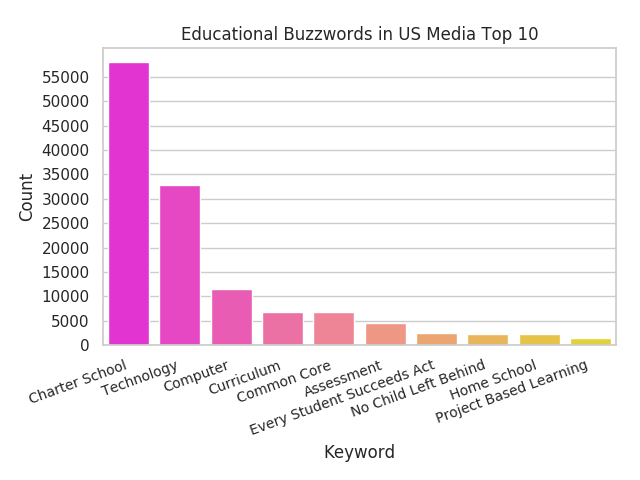
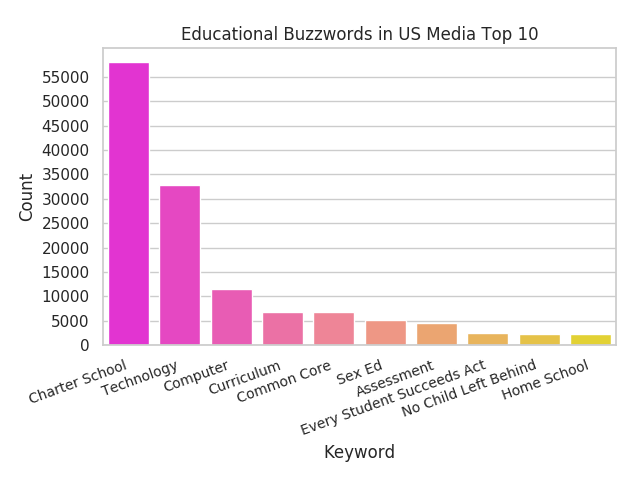
added comments, common core

diff --git a/gdelt-edu-web/templates/GDELT-details.html b/gdelt-edu-web/templates/GDELT-details.html
@@ -1,7 +1,44 @@
 {% extends "layout.html" %}
 {% block title %}
-Home - GDELT Education
+GDELT - GDELT Education
 {% endblock %}
   {% block content %}
+  <div class="centered">
+    <h2 class="subcategory-header"> Global Database of Events Language and Tone (GDELT) </h2>
 
+    <div class="topic-intro caption">
+    <p> All of the data used in this project originated from the GDELT dataset.
+      I used the events table, in which each row of the table represents a given event
+      and is characterized by actors and actor codes, an event code, geographic coordinates,
+      a URL linking to the article describing the event, the average tone of the article,
+      the country where the event took place, as well as the date the article was published and the date when the article was uploaded
+      to the database. For more information on how the articles are filtered, analyzed,
+      and uploaded to the database, please see this <a href="http://data.gdeltproject.org/documentation/ISA.2013.GDELT.pdf">2013 paper introducing GDELT</a> [1].
+    </p>
+
+    <p>The events table holds 184.3 GB of data and consists of 460,419,602 rows. Using Google Big Query
+      I filtered this table for all actor codes that included the code EDU and saved the
+      results in a new table that consisted of 6.82 GB of data and 23,109,910 rows.
+    </p>
+
+    <p> The main fields of interest that I used to make the majority of my visualizations include:
+    </p>
+    <div class="fields-list">
+    <ul>
+      <li><b>SOURCEURL:</b> This field is only present in the daily event stream files beginning April 1, 2013 and lists the URL of the news article the event was found in. If an event was mentioned in multiple articles, only one of the URLs is provided. This field is not present in event files prior to April 1, 2013 [2].<br><br></li>
+      <li><b>AvgTone:</b> This is the average “tone” of all documents containing one or more mentions of this event. The score ranges from -100 (extremely negative) to +100 (extremely positive) [2].<br><br> </li>
+      <li> <b>NumMentions:</b> This is the total number of mentions of this event across all source documents. Multiple references to an event within a single document also contribute to this count. This can be used as a method of assessing the “importance” of an event: the more discussion of that event, the more likely it is to be significant [2].<br><br></li>
+      <li> <b>Actor1Geo_ADM1Code</b> This field allowed me to extract individual states from within United States [2]. <br><br></li>
+    </div>
+    <h2 class="subcategory-header"> Sources </h2>
+    <div class="fields-list">
+    <ol>
+      <li><a href="http://data.gdeltproject.org/documentation/ISA.2013.GDELT.pdf">ISA 2013 Paper Introducing GDELT</a> </li>
+      <li><a href="http://data.gdeltproject.org/documentation/GDELT-Data_Format_Codebook.pdf">GDELT 1.0 Data Format Documentation</li>
+    </ol>
+    </div>
+
+
+</div>
+  </div>
   {% endblock %}

diff --git a/gdelt-edu-web/templates/layout.html b/gdelt-edu-web/templates/layout.html
@@ -17,6 +17,7 @@
         <!-- since the list is right-floated it displays backwards -->
         <ul>
           <li><a href="/contact"> Contact </a>
+          <li><a href="/GDELT-details"> GDELT Details </a>
           <li><a href="https://github.com/yohn-dezmon/education-gdelt"> Source Code </a>
           <li><a href="/"> Home </a>
 
@@ -33,10 +34,9 @@
         <ul class="bottom-links">
           <li><a href="essa">Every Student Succeeds Act</a></li>
           <li><a href="curriculum">Curriculum in the US</a></li>
-          <li><a href="mastery">Mastery Based Learning</a></li>
-          <li><a href="querydb"> Query Data </a></li>
-          <li><a href="charter-schools"> Charter Schools </a></li>
-          <li><a href="assessment"> Assessments </a></li>
+          <li><a href="common-core">Common Core</a></li>
+          <li><a href="charter-schools">Charter Schools </a></li>
+          <li><a href="assessment">Assessments </a></li>
       </ul>
       </div>
     </div>

diff --git a/gdelt-edu-web/templates/charter-schools.html b/gdelt-edu-web/templates/charter-schools.html
@@ -1,6 +1,6 @@
 {% extends "layout.html" %}
 {% block title %}
-Home - GDELT Education
+Charter Schools - GDELT Education
 {% endblock %}
   {% block content %}
   <div class="centered">
@@ -55,8 +55,8 @@ Home - GDELT Education
     {{ top_20_20152016|safe }}
     </div>
 
-    
-    <h2 class="subcategory-header"> Recent Decline in Average Tone and Number of Mention </h2>
+
+    <h2 class="subcategory-header"> Recent Decline in Average Tone and Number of Mentions </h2>
     <div class="CATable">
     {{ top_20_2017pres|safe }}
     </div>

diff --git a/gdelt-edu-web/templates/index.html b/gdelt-edu-web/templates/index.html
@@ -16,7 +16,7 @@ Home - GDELT Education
          include:
          which states have the greatest media coverage of educational topics,
          how are laws regarding education received by the public,
-         which states are talking about curriculum the most, amongst others.
+         what is the relative occurence of educational buzzwords in US media, amongst others.
          To see the data visualizations that answer these questions, please
          select a sub-category below!</p>
 

diff --git a/gdelt-edu-web/static/styles.css b/gdelt-edu-web/static/styles.css
@@ -21,7 +21,7 @@ h1 {
 .header-buttons {
   float:right;
   display: inline;
-  width:30%;
+  width:40%;
 }
 
 ul {
@@ -118,7 +118,7 @@ h2 {
 
 .wide {
   width: 100%;
-  
+
 }
 
 .subcategory-header {
@@ -375,6 +375,21 @@ table.curriculum td {
   width:600px;
   height:450px;
   margin: auto;
+}
+
+.fields-list {
+  width:70%;
+  margin: auto;
+  text-align: center;
+  font-size: 0.9em;
+}
+
+.fields-list p {
+  font-size: 0.9em;
+}
+
+.fields-list ol li {
+  float: left;
 }
 
 /* table.FL {

diff --git a/gdelt-edu-web/templates/common-core.html b/gdelt-edu-web/templates/common-core.html
@@ -1,0 +1,11 @@
+{% extends "layout.html" %}
+{% block title %}
+Common Core - GDELT Education
+{% endblock %}
+  {% block content %}
+  <div class="centered">
+    <h2 class="subcategory-header"> Key-phrase: Common Core </h2>
+  <iframe class="subcat-img" width="900" height="400" frameborder="0" scrolling="no" src="//plot.ly/~yohn_dezmon/17.embed"></iframe>
+
+  </div>
+  {% endblock %}

diff --git a/gdelt-edu-web/templates/contact.html b/gdelt-edu-web/templates/contact.html
@@ -1,6 +1,6 @@
 {% extends "layout.html" %}
 {% block title %}
-ESSA - GDELT Education
+Contact - GDELT Education
 {% endblock %}
   {% block content %}
   <div class="Contact-Intro">

diff --git a/gdelt-edu-web/templates/assessment.html b/gdelt-edu-web/templates/assessment.html
@@ -87,5 +87,5 @@ Assessment - GDELT Education
   {{ FL_html_table|safe }}
   </div>
   </div>
-
+  </div>
   {% endblock %}

diff --git a/gdelt-edu-web/app.py b/gdelt-edu-web/app.py
@@ -20,35 +20,43 @@ import pdb
 app = Flask(__name__)
 
 class Database:
+    """ This class allows me to connect to the MySQL database. I have not included
+    a page where this is utilized on the website yet, however it is a feature I would
+    like to add in the future.
+    """
     def __init__(self):
         host = "127.0.0.1"
         user= "root"
         password = ""
         db = "gdelt"
 
+        # Here I am connecting to the database using pymysql.
         self.con = pymysql.connect(host=host, user=user, password=password, db=db,
                                 cursorclass=pymysql.cursors.DictCursor)
         self.cur = self.con.cursor()
 
     def list_actors(self):
+        """ This is a test query to ensure that pymysql was connecting to the database.
+        """
         self.cur.execute("SELECT Actor2Name from freqused LIMIT 50")
         result = self.cur.fetchall()
+        self.con.close()
 
         return result
 
-# instantiate Graph() class
 
 
 @app.route('/', methods=['GET'])
 def index_get():
-
-
+    """ This is the homepage of the website
+    """
 
     return render_template('index.html')
 
 @app.route('/querydb', methods=['GET'])
 def query_db_page():
-
+    """ Here I am connecting to the database with a combination of pymysql and
+    SQLAlchemy"""
     def db_query():
         db = Database()
         actors = db.list_actors()
@@ -62,7 +70,10 @@ def query_db_page():
 
 @app.route('/curriculum', methods=['GET'])
 def curri_page():
-
+    """ This is the curriculum category page. This method is used to generate the
+    graphs and tables that display on this page.
+    """
+    # The Graph class is instantiated and assigned to the graph variable.
     graph = Graph()
 
 
@@ -88,7 +99,9 @@ def curri_page():
 
 @app.route('/charter-schools', methods=['GET'])
 def charter_schools_page():
-
+    """ This is the charter school category page. This method is used to generate
+    the graphs and tables that display on the page.
+    """
     graph = Graph()
 
     # This line can be used to generate the avgtone/nummention line plot again if needed.
@@ -116,33 +129,46 @@ def charter_schools_page():
 
 @app.route('/essa', methods=['GET'])
 def essa_page():
+    """ This is the method that renders the Every Student Succeeds Act page."""
 
     return render_template('essa.html')
 
 @app.route('/GDELT-details', methods=['GET'])
 def details_page():
+    """ This method renders the page that explains the details of how I used the
+    GDELT Dataset and some of the key features within the Dataset.
+    """
 
     return render_template('GDELT-details.html')
 
-@app.route('/mastery', methods=['GET'])
-def mastery_page():
+@app.route('/common-core', methods=['GET'])
+def common_core_page():
+    """ This is the common category page.
+    """
 
-    return render_template('mastery.html')
+    return render_template('common-core.html')
 
 @app.route('/contact', methods=['GET'])
 def contact_page():
+    """ This method renders the contact page I've made in case someone wants to
+    contact me regarding the project
+    """
 
     return render_template('contact.html')
 
 
 @app.route('/assessment', methods=['GET'])
 def assessment_page():
+    """ This is the assessment category page. This method is used to generate
+    the graphs and talbes that display on the page.
+    """
+
     graph = Graph()
-    # dtype={'AvgAvgTone': 'float'}
+
     assessment_count = graph.assessment_count()
     assessment_avgtone = graph.assessment_avgtone()
 
-    # pdb.set_trace()
+
     maine_html_table = graph.table_generator("main_nummen_assessment", "assessment")
     student_html_table = graph.table_generator("student_nummen_assessment", "assessment")
     US_html_table = graph.table_generator("US_nummen_assessment", "assessment")

diff --git a/gdelt-edu-web/graphs.py b/gdelt-edu-web/graphs.py
@@ -11,34 +11,47 @@ import pdb
 
 class Graph(object):
     """ A class to house all of the code responsible for creating
-    the graphs on the website, thus making app.py more readable. """
+    the graphs and tables on the website, thus making app.py more readable.
+    """
 
     def __init__(self):
         pass
 
     def buzzwords_graph(self, name_of_file):
+        """ This method generates the 'Top 10' buzzwords bar graph that is displayed
+        on the Charter School page
+        """
+        # Setting the Seaborn style.
         sns.set(style='whitegrid')
 
+        # Ingesting the data into a Pandas dataframe.
         df = pd.read_csv('/media/sf_sharedwithVM/MySQL/'+name_of_file+'.csv',
                                 sep=',',
                                 names=['Keyword','Count']
                                 )
+        df2 = pd.DataFrame({'Keyword':['Sex Ed'],
+                    'Count': [5234]})
+        df = df.append(df2, ignore_index = True)
+        # Here the data is sorted by Count in descending order.
         if name_of_file == "keyword_count":
             df_sorted = df.sort_values(by=['Count'], ascending=False).head(10)
         else:
             df_sorted = df.sort_values(by=['Count'], ascending=False)
 
-
-        # default = 6.4 (width?), 4.8 (height)
+        # Create a figure object.
+        # The default width is 6.4 and the default height is 4.8.
         plt.figure()
+        # Seaborn is used to create a barplot.
         ax = sns.barplot(x='Keyword',y='Count', data=df_sorted, palette='spring')
         ax.set_xticklabels(ax.get_xticklabels(), rotation=20, ha="right", fontsize=10)
         plt.xlabel('Keyword', fontsize=12)
         # ok I think the ordering of tight_layout() -> subplots_adjust is important!
 
         y = df_sorted['Count']
+        # Creating appropriate y ticks.
         plt.yticks(np.arange(0, 60000, 5000))
         plt.ylabel('Count', fontsize=12)
+        # This ensures that the x-axis label is not cut off despite slightly vertical x tick labels.
         plt.tight_layout()
         plt.subplots_adjust(top=0.9)
         if name_of_file == "keyword_count":
@@ -47,7 +60,9 @@ class Graph(object):
             plt.title('Educational Buzzwords in German Media Top 10')
 
         url = 'static/'+name_of_file+'.png'
+        # The matplotlib figure is saved to the static folder of the project.
         plt.savefig('/media/sf_sharedwithVM/gdelt-education/gdelt-edu-web/static/'+name_of_file+'.png')
+        # This should clear the plt.figure() object.
         plt.clf()
 
         return url
@@ -61,7 +76,7 @@ class Graph(object):
         df_sorted = df.sort_values(by=['Count'], ascending=False).head(15)
 
 
-        # default = 6.4 (width?), 4.8 (height)
+        # default = 6.4 (width), 4.8 (height)
         plt.figure()
         ax = sns.barplot(x='Actor',y='Count', data=df_sorted, palette='spring')
 

diff --git a/gdelt-edu-web/run.py b/gdelt-edu-web/run.py
@@ -1,5 +1,3 @@
-""" leaving this here for reference, not going to use this code for now """
-
 from app import app
 from db import db
 from models import freqused
@@ -7,6 +5,7 @@ import routes
 import time
 from datetime import datetime
 
+""" leaving this here for reference, not going to use this code for now """
 
 with app.app_context():
     # creates the tables defined in models

diff --git a/gdelt-edu-web/models/freqused.py b/gdelt-edu-web/models/freqused.py
@@ -1,9 +1,7 @@
-""" leaving this here for reference, not going to use this code for now """
-
 from db import db
 import datetime
 import re
-
+""" leaving this here for reference, not going to use this code for now """
 
 class FreqUsed(db.Model):
     # idk if I can set this as PK since it isn't in the DB
